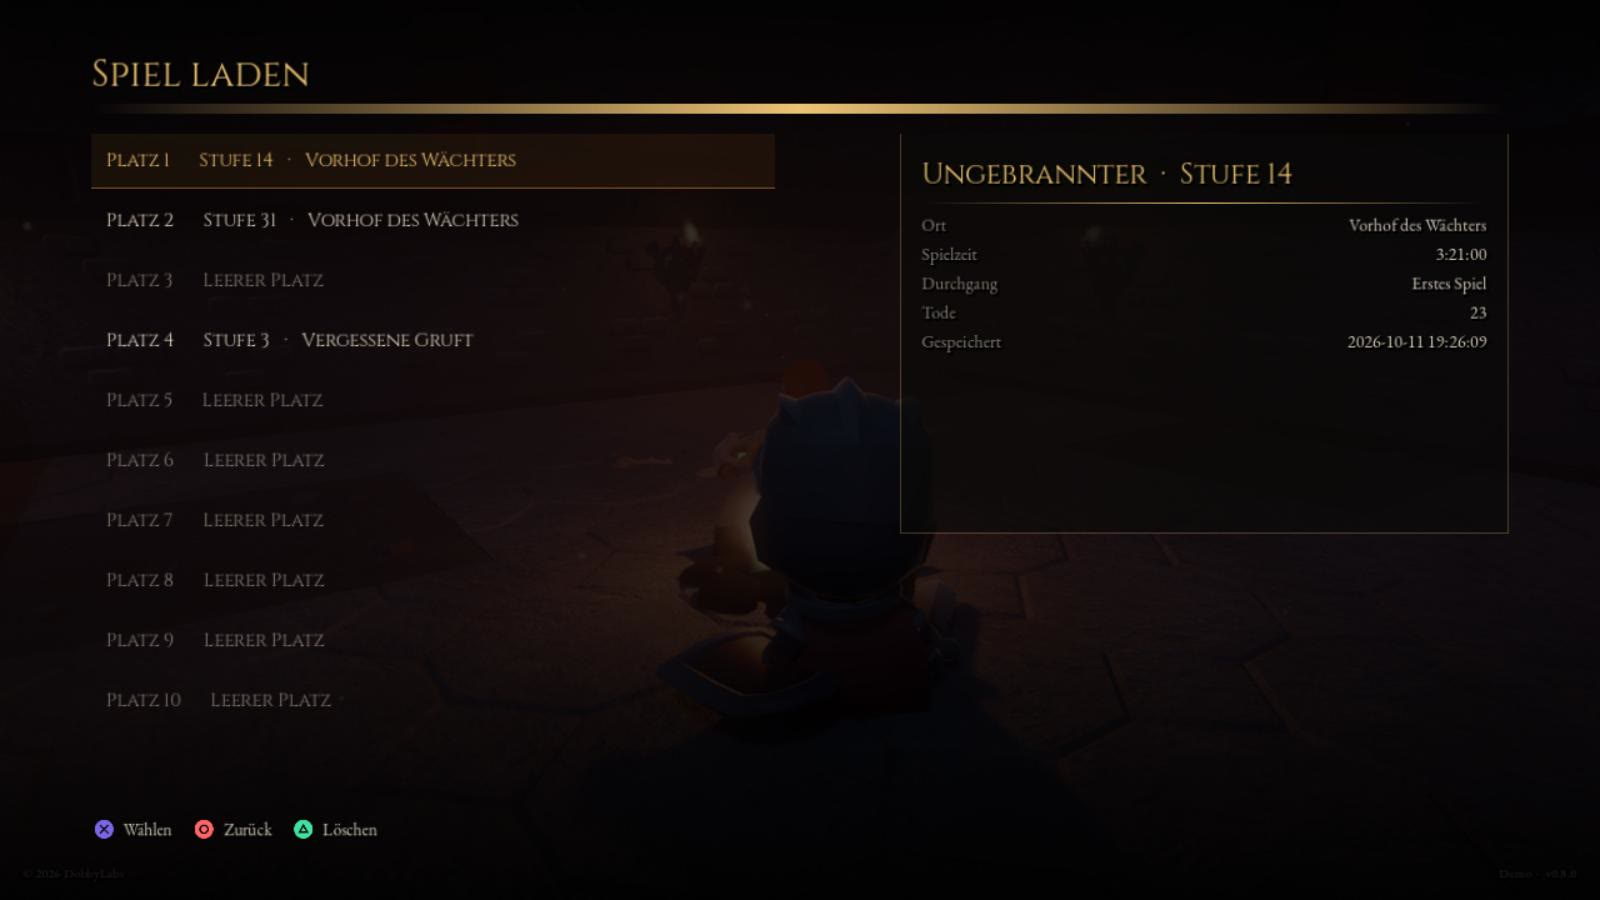
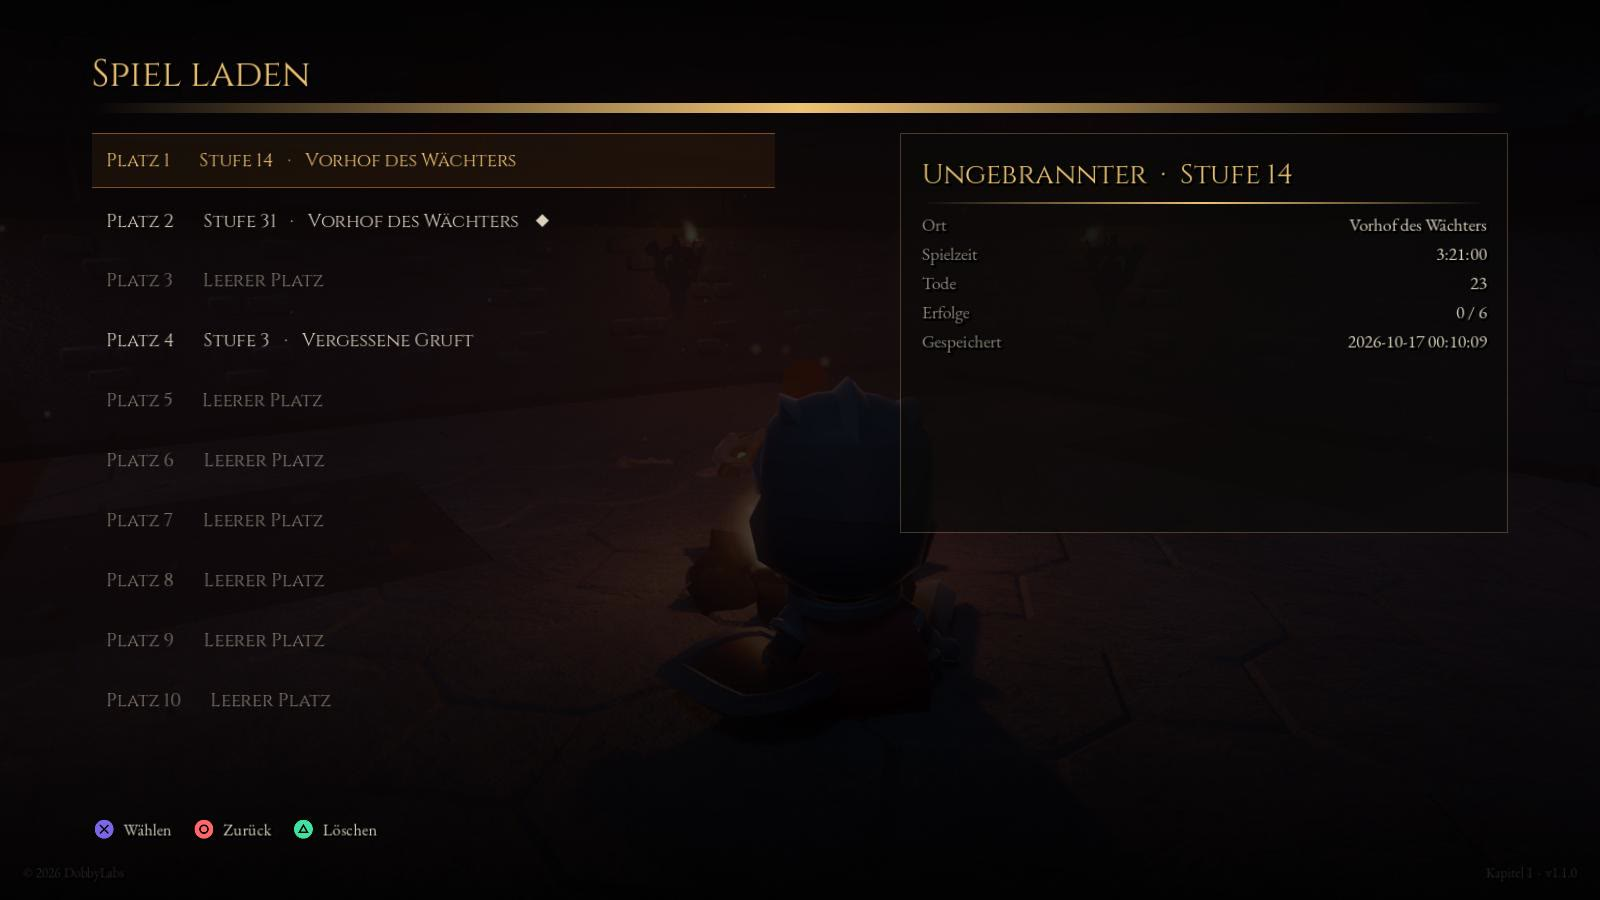
Ascheneid v1.1.0

diff --git a/README.md b/README.md
@@ -5,7 +5,7 @@
 <h3 align="center"><em>Die Glut ist erloschen. Nur die Asche erinnert sich.</em></h3>
 
 <p align="center">
-  Ein düsteres Soulslike in einer Gruft, die ihre Toten nicht hergibt.<br>
+  Ein düsteres Soulslike in einer Gruft, die ihre Toten nicht hergibt – und an einem Ort, der dich danach erwartet.<br>
   Lies den Gegner. Pariere. Fall. Steh wieder auf.
 </p>
 
@@ -18,8 +18,8 @@
 </p>
 
 <p align="center">
-  <img alt="Version" src="https://img.shields.io/badge/Version-1.0.0-e8a04a?style=flat-square">
-  <img alt="Spielzeit" src="https://img.shields.io/badge/Spielzeit-ca.%2040%20Minuten-6b4f3a?style=flat-square">
+  <img alt="Version" src="https://img.shields.io/badge/Version-1.1.0-e8a04a?style=flat-square">
+  <img alt="Spielzeit" src="https://img.shields.io/badge/Spielzeit-ca.%2050%20Minuten-6b4f3a?style=flat-square">
   <img alt="Sprache" src="https://img.shields.io/badge/Sprache-Deutsch-6b4f3a?style=flat-square">
   <img alt="Controller" src="https://img.shields.io/badge/Controller-Xbox%20%C2%B7%20PlayStation%20%C2%B7%20Steam%20Deck-6b4f3a?style=flat-square">
   <img alt="Godot 4.7" src="https://img.shields.io/badge/Godot-4.7-478cbf?style=flat-square&logo=godotengine&logoColor=white">
@@ -47,9 +47,10 @@ Du erwachst als *Ungebrannter* in einem offenen Sarg. Vor dir liegen Hallen voll
 die lügen, eine Truhe, die atmet, ein sterbender Ritter mit einem letzten Auftrag. Und am Ende ein
 Nebel, hinter dem ein Thron wartet.
 
-**Ascheneid 1.0** ist das erste abgeschlossene Kapitel – kostenlos, rund 40 Minuten lang: mit erzähltem Intro,
-einer eigenen kleinen Einführung, einem Gebiet voller Geheimnisse, einem Mini-Boss, einem zweiphasigen
-Endboss und einem Finale, das eine Tür offen lässt.
+**Ascheneid 1.1** ist kostenlos und rund 50 Minuten lang: ein abgeschlossenes erstes Kapitel mit erzähltem
+Intro, einer eigenen kleinen Einführung, einem Gebiet voller Geheimnisse, einem Mini-Boss und einem
+zweiphasigen Endboss. Danach trägt dich der Aschewirbel ins **Vergessene Refugium**, wo die Geschichte
+weitergeht.
 
 <br clear="right">
 
@@ -58,14 +59,19 @@ Endboss und einem Finale, das eine Tür offen lässt.
   <sub><em>„Der Letzte von ihnen schwor, nicht zu weichen – nicht vor dem Feind. Nicht vor der Zeit.“</em></sub>
 </p>
 
-## Neu in 1.0
+## Neu in 1.1: Das Vergessene Refugium
 
-- **Das Urteil der Krone:** Der Wächter hat schon in Phase 1 einen roten Angriff. Er glüht am ganzen Körper
-  rot auf, während er das Kronzepter über den Kopf reißt – parieren hilft nicht, ausweichen schon.
-- **Ausgewogener Endkampf:** fordernd, aber fair – auch wer nicht jede Parade trifft, hat eine Chance.
-- **Ser Aldric erneuert seinen Eid,** wenn der Wächter in Raserei verfällt, und schöpft neue Kraft.
-- **Ein klarer Sturz:** Beim Einsturz der Gruft verdeckt kein Staubschleier mehr den Fall, und wie jede
-  Zwischensequenz lässt er sich mit einer gehaltenen Taste überspringen.
+<p align="center">
+  <img src="docs/media/still_refugium.jpg" alt="Ein gepflasterter Weg zwischen Gräbern und Laternen führt zur Kathedrale, hinter ihren Türmen steht ein riesiger Blutmond" width="760">
+</p>
+
+- **Ein Ort zwischen den Orten:** Nach dem Sieg über den Wächter erwachst du auf einem verwunschenen Friedhof
+  unter Sternen und einem riesigen Blutmond. Keine Gegner, nur Stille, Bodennebel und eine ferne Glocke.
+- **Dobby, der Imp:** Hüter der Schlüssel, Bewahrer der Geheimnisse und gelegentlich zuständig für die
+  Unkrautentfernung. Er führt dich zur Kathedrale und hat zu allem etwas zu sagen.
+- **Das große Tor und drei verlorene Steine:** In der Kathedrale wartet ein versiegeltes Tor. Die Steine,
+  die es öffnen, liegen in anderen Welten verstreut.
+- **Das Portal zu den Eishöhlen** schimmert schon. Was dahinter liegt, erzählt das nächste Kapitel.
 
 Alle Änderungen stehen im [CHANGELOG](CHANGELOG.md).
 
@@ -166,12 +172,29 @@ Alle Änderungen stehen im [CHANGELOG](CHANGELOG.md).
     <td width="52%"><img src="docs/media/boss.gif" alt="Mit Aldric gegen den Gekrönten Wahn, der in Zorn gerät; ein Glutschild umhüllt ihn" width="460"></td>
   </tr>
   <tr>
+    <td width="52%"><img src="docs/media/refugium.gif" alt="Dobby beugt sich über die erwachende Figur, dann führt er sie über den Friedhof zur Kathedrale unter dem Blutmond" width="460"></td>
+    <td>
+      <h3>Das Vergessene Refugium</h3>
+      Nach dem Sieg erwachst du unter einem Blutmond, und über dir beugt sich <b>Dobby</b>. Der kleine Imp
+      führt dich zwischen Gräbern und Laternen zur Kathedrale, wartet, wenn du trödelst, und beschwert sich,
+      wenn du ihn schlägst. Hier kann dir nichts geschehen.
+    </td>
+  </tr>
+  <tr>
+    <td>
+      <h3>Das große Tor</h3>
+      Am Ende des Kirchenschiffs, zwischen zwei Feuerschalen, steht ein versiegeltes Tor mit <b>drei leeren
+      Fassungen</b>. Daneben schwebt ein eisblaues Portal. Berühre es, und die Kälte dahinter verrät dir,
+      wohin dein Weg als Nächstes führt.
+    </td>
+    <td width="52%"><img src="docs/media/gate.gif" alt="Dobby vor dem großen Tor der Kathedrale, die Kamera fährt an den Fassungen hinauf, daneben das eisblaue Portal" width="460"></td>
+  </tr>
+  <tr>
     <td width="52%"><img src="docs/media/inventory.gif" alt="Inventar mit Schnellleiste, Ringen und Detailtafel, bedient mit dem PlayStation-Controller" width="460"></td>
     <td>
       <h3>Ausrüstung mit Geschichte</h3>
       Jedes Stück hat seine eigene Lore. Wechsle im Kampf mit einem Tastendruck zwischen Schwert und
-      Schild und Wurfmessern, lege den Ring an, den die Gierige Truhe nicht verdauen konnte,
-      und bring deine Figur in <b>Neues Spiel+</b>.
+      Schild und Wurfmessern und lege den <b>Ring</b> an, den die Gierige Truhe nicht verdauen konnte.
     </td>
   </tr>
 </table>
@@ -194,8 +217,14 @@ Alle Änderungen stehen im [CHANGELOG](CHANGELOG.md).
   <tr>
     <td><img src="docs/media/still_forge.jpg" alt="Am Glutfeuer: Glut einschmelzen, für den Flakon oder eine Waffe" width="220"></td>
     <td><img src="docs/media/still_inventory.jpg" alt="Das Inventar mit Schnellleiste, Ring und Detailtafel" width="220"></td>
-    <td><img src="docs/media/still_slots.jpg" alt="Zehn Spielstände mit Ort, Spielzeit, Durchgang und Toden" width="220"></td>
+    <td><img src="docs/media/still_slots.jpg" alt="Zehn Spielstände mit Ort, Spielzeit und Toden" width="220"></td>
     <td><img src="docs/media/still_achievement.jpg" alt="Ein Erfolg wird freigeschaltet" width="220"></td>
+  </tr>
+  <tr>
+    <td><img src="docs/media/still_dobby.jpg" alt="Dobby beugt sich über die erwachende Figur" width="220"></td>
+    <td><img src="docs/media/still_bloodmoon.jpg" alt="Der Blutmond hinter den Türmen der Kathedrale" width="220"></td>
+    <td><img src="docs/media/still_nave.jpg" alt="Im Kirchenschiff: Säulen, Banner, Buntglas und das eisblaue Portal" width="220"></td>
+    <td><img src="docs/media/still_gate.jpg" alt="Das große Tor mit den drei Fassungen" width="220"></td>
   </tr>
 </table>
 
@@ -208,7 +237,8 @@ Alle Änderungen stehen im [CHANGELOG](CHANGELOG.md).
   holt seine Seelen zurück
 - **Eine Gruft voller Geheimnisse:** Scheinmauern, Abkürzungen, eine Truhe, die beißt, und Inschriften am Boden
 - **Zwei Bosse mit Auftritt** und ein Verbündeter, den du in den letzten Kampf rufen kannst
-- **Zehn Spielstände, sechs Erfolge** je Spielstand und Neues Spiel+
+- **Ein Ort zum Durchatmen:** das Vergessene Refugium mit Dobby, dem großen Tor und dem Weg ins nächste Kapitel
+- **Zehn Spielstände und sechs Erfolge** je Spielstand
 - **Mit Controller gedacht:** Xbox, PlayStation und Steam Deck werden erkannt, überall erscheinen die
   passenden Tastensymbole; Tastatur und Maus frei belegbar
 - **Läuft auch unterwegs:** Grafikstufen passend zur Hardware, eine eigene für das Steam Deck; Updates
@@ -242,6 +272,16 @@ Alle Änderungen stehen im [CHANGELOG](CHANGELOG.md).
 Bibliothek, im Vollbild, mit Steam-Deck-Tastensymbolen und einer Grafikstufe für den Akku
 (60 Bilder pro Sekunde, FSR). Unter Linux gilt dasselbe: entpacken, starten; startet die Datei nicht,
 hilft `chmod +x Ascheneid.x86_64`.
+
+**Steam-Bibliothek schöner machen:** Für Ascheneid als Nicht-Steam-Spiel gibt es ein passendes Art-Pack
+(Capsule, Wide Capsule, Hero, Logo und Icon) unter [`docs/media/steam`](docs/media/steam). Auf dem Steam Deck im
+Desktop-Modus in Steam: Rechtsklick auf Ascheneid → *Eigenschaften* bzw. auf das Bild → *Eigenes Bild festlegen*.
+Bequemer geht es mit einem Programm wie SteamGridDB (Decky-Plugin).
+
+<p align="center">
+  <img src="docs/media/steam/ascheneid_capsule_600x900.png" alt="Steam-Capsule: Ritter und Dobby auf dem Friedhofsweg vor der Kathedrale unter dem Blutmond, darunter der Titel" width="180">
+  <img src="docs/media/steam/ascheneid_wide_920x430.png" alt="Breite Steam-Capsule mit Titel" width="384">
+</p>
 
 **macOS:** Die App ist nicht von Apple notarisiert. Beim ersten Start: Rechtsklick auf die App →
 *Öffnen* → *Öffnen*. Hilft das nicht: Systemeinstellungen → Datenschutz & Sicherheit →
@@ -282,7 +322,8 @@ Alle Tastatur- und Mausbelegungen lassen sich unter *Optionen → Steuerung* än
 ## Mitwirkende
 
 Entwickelt von **DobbyLabs** mit Claude (Anthropic), gebaut mit der [Godot Engine](https://godotengine.org).
-Modelle von Kay Lousberg (KayKit) und Quaternius, Texturen von Poly Haven, Musik von cynicmusic,
+Modelle von Kay Lousberg (KayKit) und Quaternius, die Kathedrale von HugoHesseling, die Engelsstatue
+von Zsky, Texturen von Poly Haven, Musik von cynicmusic,
 Cethiel, yd und César da Rocha, Klänge und Tastensymbole von Kenney. Alle Quellen und Lizenzen stehen in
 [CREDITS.md](CREDITS.md).
 

diff --git a/CHANGELOG.md b/CHANGELOG.md
@@ -3,6 +3,42 @@
 Alle Änderungen an **Ascheneid – Die Gruft des Gefallenen Wächters**, die neueste Version oben.
 Die aktuelle Version gibt es unter [Releases](https://github.com/KrabbiAI/Ascheneid/releases).
 
+## [1.1.0] – 2026-10-17 – Das Vergessene Refugium
+
+Der Sieg über den Wächter ist nicht mehr das Ende: Der Aschewirbel trägt dich an einen Ort zwischen den Orten.
+
+### Neu
+- **Das Vergessene Refugium:** ein verwunschener Friedhof unter Sternen und einem riesigen Blutmond. Ein
+  gepflasterter Weg führt zwischen Gräbern, Gruften und toten Bäumen hindurch, Laternen glimmen im Bodennebel,
+  und am Ende wartet eine Kathedrale. Hier gibt es keine Gegner, nur Stille, eine ferne Glocke und eine eigene,
+  ruhige Musik.
+- **Dobby, der Imp:** Du erwachst, und über dir beugt sich ein kleiner Kerl mit großen Augen – Hüter der
+  Schlüssel, Bewahrer der Geheimnisse und gelegentlich zuständig für die Unkrautentfernung. Er führt dich zur
+  Kathedrale, wartet, wenn du trödelst, und hat zu allem etwas zu sagen. Schlagen kannst du ihn. Er beschwert
+  sich nur.
+- **Das große Tor:** In der Kathedrale steht ein versiegeltes Tor mit drei leeren Fassungen. Drei Steine
+  fehlen, verstreut in Welten, die längst hätten verschwinden sollen. Eine Questanzeige zeigt dir das
+  aktuelle Ziel.
+- **Das Portal zu den Eishöhlen:** Über einer Portalsäule schwebt ein eisblaues Portal. Berühre es, und
+  du erfährst, was hinter dem Eis wartet. Die Eishöhlen selbst folgen im nächsten Kapitel.
+- **Ein neues Glutfeuer** in der Kathedrale. Im Refugium kann dir nichts geschehen: Wer herunterfällt, steht
+  einfach wieder auf sicherem Boden.
+- **Art-Pack für die Steam-Bibliothek:** Wer Ascheneid als Nicht-Steam-Spiel auf dem Steam Deck oder am PC
+  spielt, findet Capsule, Wide Capsule, Hero, Logo und Icon im Ordner `docs/media/steam`.
+
+### Änderungen
+- **Dialoge lassen sich in Ruhe lesen:** Ein Tastendruck zeigt die Zeile sofort ganz, erst der nächste
+  schaltet weiter.
+- **Optionen besser bedienbar:** Die gewählte Zeile leuchtet golden, Schieberegler haben einen großen, hellen
+  Griff. Du siehst sofort, welcher Regler gerade aktiv ist.
+- **Neues Spiel+ entfällt:** Durchgespielte Spielstände laden direkt weiter und tragen ihre Markierung ◆.
+  Alte Spielstände laden ohne Fehler.
+
+### Behoben
+- Nach dem Sieg über den Wächter konnte das Spiel bei sehr niedriger Bildrate im Sog des Aschewirbels hängen
+  bleiben.
+- In Zwischensequenzen lief die Figur manchmal auf der Stelle, statt zu stehen.
+
 ## [1.0.0] – 2026-10-15 – Das erste Kapitel
 
 Ascheneid 1.0: die Gruft des Gefallenen Wächters als abgeschlossenes erstes Kapitel.

diff --git a/CREDITS.md b/CREDITS.md
@@ -23,6 +23,31 @@ In Blender importiert und als GLB nach `assets/models/props/` exportiert:
 - „Throne“ – Poly by Google – **CC-BY 3.0** (poly.pizza/m/bpFCWQSs-aT,
   creativecommons.org/licenses/by/3.0)
 
+## Das Vergessene Refugium (Hub)
+In Blender importiert, angepasst und als GLB nach `assets/models/hub/` exportiert:
+- „Gravestone“ (zwei Varianten), „Grave“, „Damaged Grave“, „Crypt“, „Post Lantern“, „Iron Fence“,
+  „Damaged Iron fence“, „Fence Gate“, „Skull Candle“ – Kay Lousberg – CC0, über Poly Pizza
+  (poly.pizza/m/lrEHKjTy29, /m/ErfdU1GJSD, /m/znGrV0V80y, /m/KWtVNrHXVR, /m/iV5x01FYAl, /m/ZSQ65S4lEu,
+  /m/MDROOJeCSQ, /m/HfWdsZogtr, /m/h5P9Kuk0V5, /m/94tuTO5eJv)
+- „Dead Tree“ (zwei Varianten), „Twisted Tree“ (ohne Laub) – Quaternius – CC0, über Poly Pizza
+  (poly.pizza/m/Mcd2zYqyww, /m/oM95bD8buf, /m/8oraKn9m0x)
+- „AngelStatue“ – Zsky – **CC-BY 3.0**, über Poly Pizza (poly.pizza/m/6v4CL0nKfT,
+  creativecommons.org/licenses/by/3.0)
+- „Neo-gothic Church“ – HugoHesseling – **CC-BY 4.0**, über Sketchfab
+  (sketchfab.com/3d-models/neo-gothic-church-d514c4e08fc5436ca7f0b227e5437f9e,
+  creativecommons.org/licenses/by/4.0) – von uns ohne Treppe, mit geöffnetem Portal, gestreckt und mit
+  entsättigter, verkleinerter Textur als Kathedrale des Refugiums
+- Texturen „Forest Ground 01“ (Rob Tuytel) und „Mossy Cobblestone“ (Sơn Nguyễn) – CC0, über
+  [Poly Haven](https://polyhaven.com) (`assets/textures/hub/`, 1K)
+- Himmel mit Blutmond und Sternen, Portalschein, Buntglasfenster: eigene Shader (`assets/shaders/hub_sky.gdshader`,
+  `door_glow.gdshader`, `stained_glass.gdshader`)
+- Großes Tor und Portalsäulen: eigene Modelle, in Blender gebaut (`assets/models/hub/tor_*.glb`, `portalsaeule.glb`)
+- Musik „Refugium“ und die ferne Glocke: eigens mit ffmpeg erzeugt (die Glocke aus Kenneys „bong_001“, CC0)
+
+## Unity Asset Store
+- Dobby – „Demon Imp – Hand Painted Series“, BitGem, Unity Asset Store, Lizenz: Standard Unity Asset Store EULA
+  (Single Entity). In Blender aufbereitet (Material, Clips geteilt, Sprech-Clip ergänzt), `assets/models/dobby/`
+
 ## Texturen – CC0, über [Poly Haven](https://polyhaven.com)
 - „Rock Surface“ und „Dirt“ (Steinoberflächen der Gruft, als Detailschicht über der KayKit-Palette;
   `assets/textures/`, 1K)
